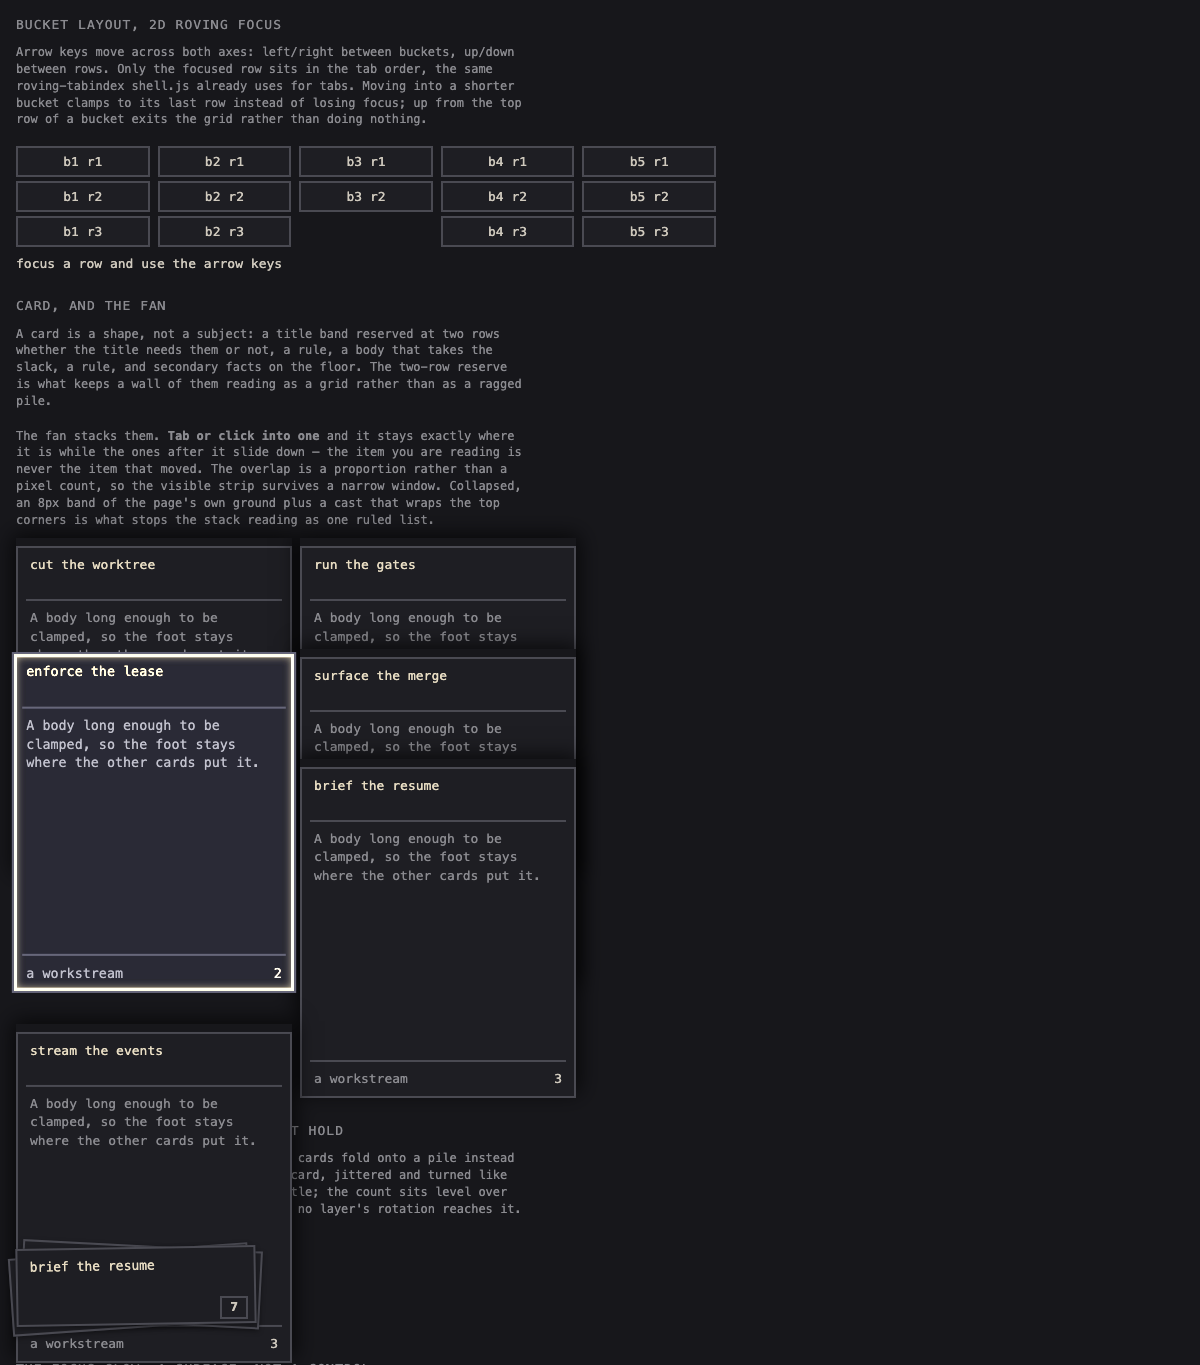
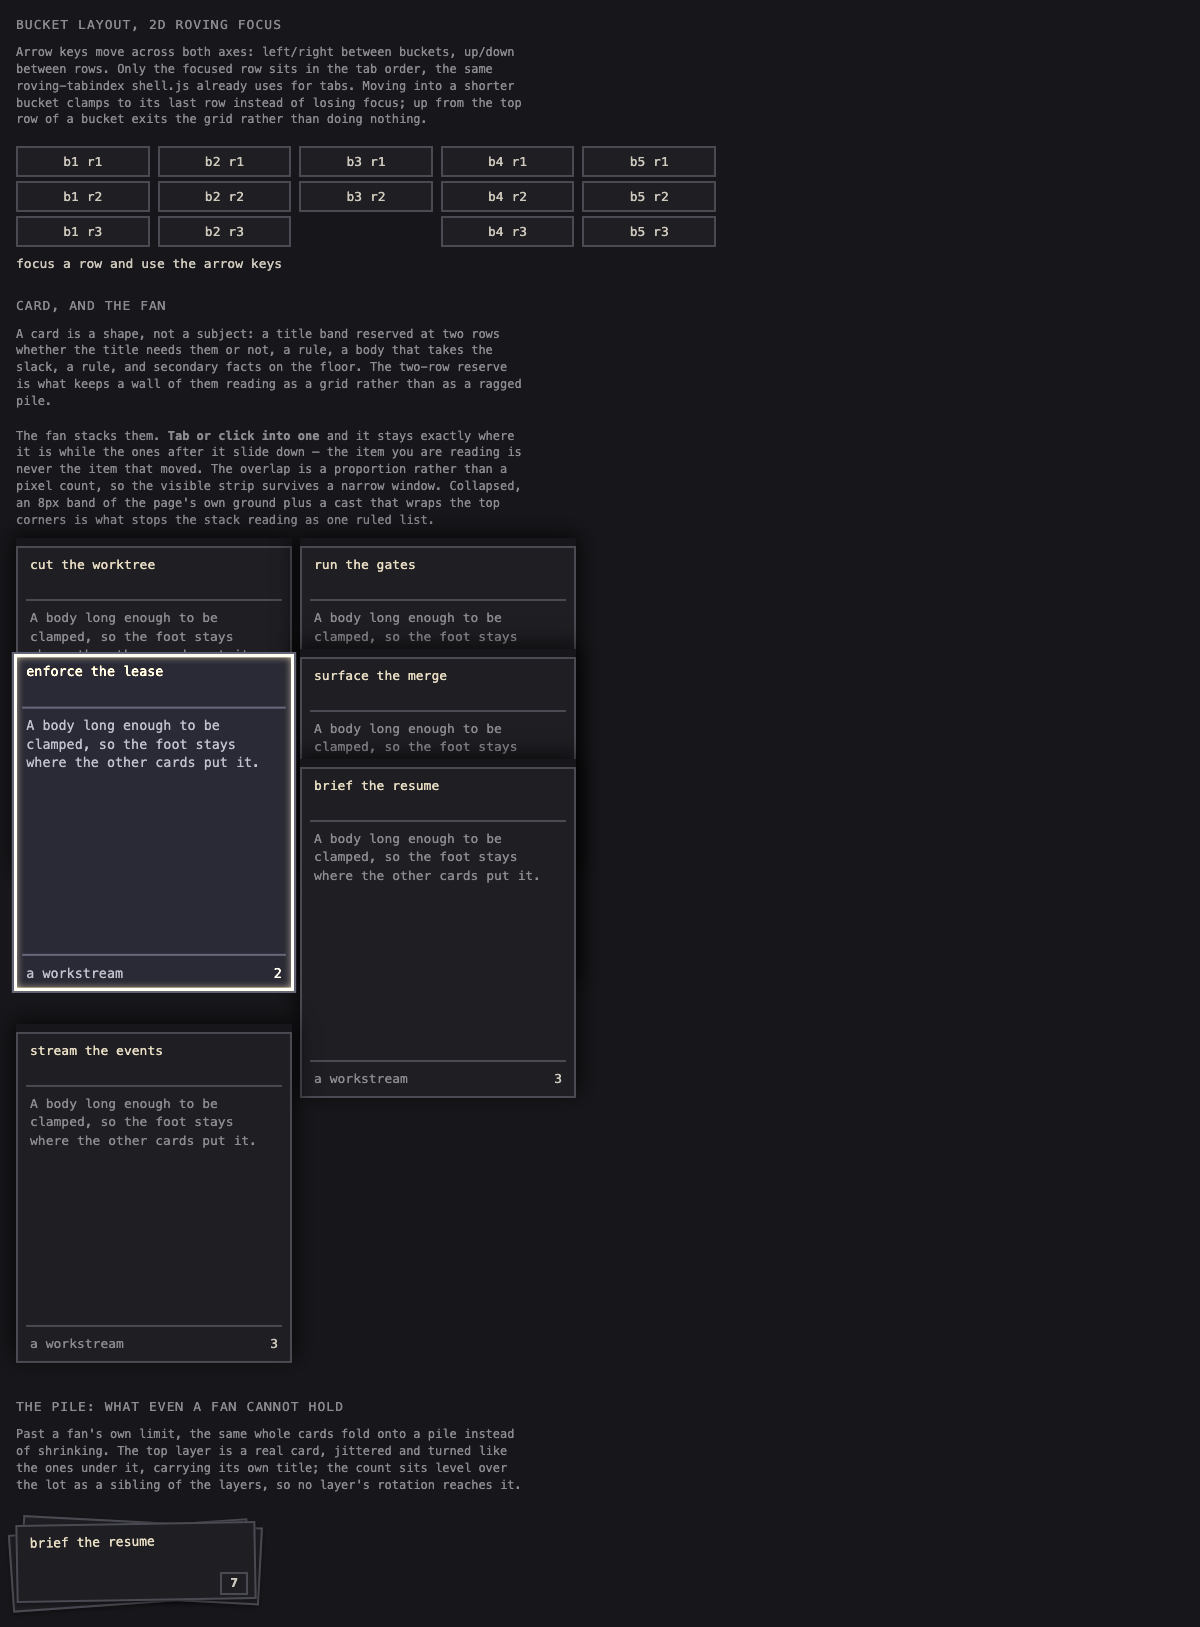
fixed the fan overlapping the pile section in the demo, retook the images it broke
the fan's focus-slide reached past its column's own (unexpanded) box and bled into the pile
heading, the pile card and the focus-glow heading below it - reserved the fan's worst-case slide
as margin-bottom instead. also fixed the screenshot tool: a clip past the current viewport, and
the colour tab's board past a 100vh body's fold, were both silently truncated rather than shot in
full - both now grow the viewport to fit before shooting.

Claude-Session: https://claude.ai/code/session_01XmtRBGJcqAinqjTiU9ZwRH

Changed region(s): [[0.0, 0.0, 0.5858, 0.7385], [0.0, 0.7692, 0.4317, 1.0]]

diff --git a/demo/index.html b/demo/index.html
@@ -240,7 +240,9 @@
     window. Collapsed, an 8px band of the page's own ground plus a cast that wraps the top corners
     is what stops the stack reading as one ruled list.
   </p>
-  <div id="fan-demo" style="display: flex; gap: var(--gap); max-width: 560px;"></div>
+  <!-- a focused card's covered siblings translate below the column's own (unexpanded) box, so the
+       fan needs its worst-case slide reserved below it or it bleeds into whatever comes next -->
+  <div id="fan-demo" style="display: flex; gap: var(--gap); max-width: 560px; margin-bottom: 300px;"></div>
 
   <h2>the pile: what even a fan cannot hold</h2>
   <p class="demo-note">

diff --git a/tools/shoot_readme_images.py b/tools/shoot_readme_images.py
@@ -26,7 +26,8 @@ def settle(page: Page, ms: int = 400) -> None:
 
 
 def shoot(page: Page, name: str) -> None:
-    page.screenshot(path=str(OUT / name))
+    # full_page rather than the bare viewport, so a resize by an earlier shot never changes this
+    page.screenshot(path=str(OUT / name), full_page=True)
     print("wrote", OUT / name)
 
 
@@ -72,8 +73,11 @@ def shoot_board_primitives(page: Page) -> None:
         ".tab-panel[data-panel='primitives']",
         "el => { const panel = el.getBoundingClientRect(); "
         "const pile = document.querySelector('.card-pile').getBoundingClientRect(); "
-        "return {x: panel.x, y: panel.y, width: 1200, height: pile.bottom - panel.y + 30}; }",
+        "return {x: panel.x, y: panel.y, width: 1200, height: pile.bottom - panel.y + 16}; }",
     )
+    # the clip can run past the viewport used to focus the card - grow the viewport to fit it
+    # before shooting, or the capture silently truncates at the old viewport's bottom edge
+    page.set_viewport_size({"width": WIDTH, "height": int(box["y"] + box["height"] + 50)})
     page.screenshot(path=str(OUT / "board-primitives.png"), clip=box)
     print("wrote", OUT / "board-primitives.png")
 
@@ -81,6 +85,10 @@ def shoot_board_primitives(page: Page) -> None:
 def shoot_palette(page: Page) -> None:
     open_tab(page, "colour")
     settle(page, 300)
+    # the tab panel scrolls inside a 100vh body, so a full_page shot still needs a viewport tall
+    # enough to hold the whole board, or the part below the fold is simply never rendered
+    bottom = page.eval_on_selector("#colour-board", "el => el.getBoundingClientRect().bottom")
+    page.set_viewport_size({"width": WIDTH, "height": int(bottom) + 30})
     shoot(page, "palette.png")
 
 
